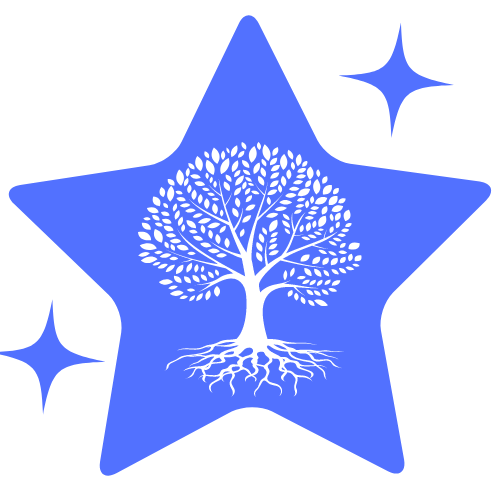
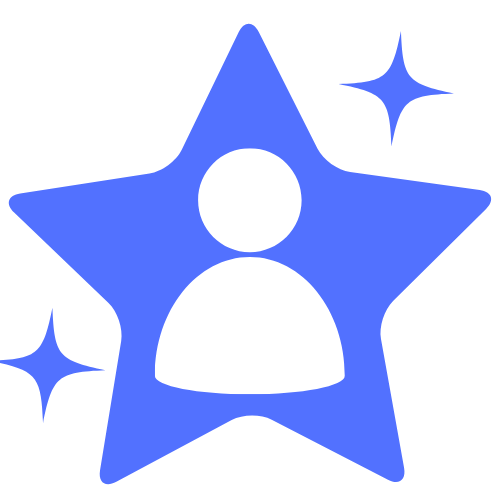
for demo

diff --git a/src/components/genealogy/StartupUserData/StartupReferralData.jsx b/src/components/genealogy/StartupUserData/StartupReferralData.jsx
@@ -11,7 +11,7 @@ const StartupReferralData = ({referrals, loading}) => {
                     <div className="card mb-3" id='gs-profile'>
                         <div className="row g-0">
                             <div className="col-md-4">
-                                <img className="card-img card-img-left" id='gs-avatar' src={process.env.PUBLIC_URL+ "/assets/img/sa_avatar_v3.png"} height={"100%"} alt="" />
+                                <img className="card-img card-img-left" id='gs-avatar' src={process.env.PUBLIC_URL+ "/assets/img/sa_avatar_v4.png"} height={"100%"} alt="" />
                             </div>
                             <div className="col-md-8">
                                 <div className="card-body" id='gs-card'>
@@ -26,7 +26,7 @@ const StartupReferralData = ({referrals, loading}) => {
                     <div className="card mb-3" id='gs-profile'>
                         <div className="row g-0">
                             <div className="col-md-4">
-                                <img className="card-img card-img-left" id='gs-avatar' src={process.env.PUBLIC_URL+ "/assets/img/sa_avatar_v3.png"} height={"100%"} alt="" />
+                                <img className="card-img card-img-left" id='gs-avatar' src={process.env.PUBLIC_URL+ "/assets/img/sa_avatar_v4.png"} height={"100%"} alt="" />
                             </div>
                             <div className="col-md-8">
                                 <div className="card-body" id='gs-card'>
@@ -41,7 +41,7 @@ const StartupReferralData = ({referrals, loading}) => {
                     <div className="card mb-3" id='gs-profile'>
                         <div className="row g-0">
                             <div className="col-md-4">
-                                <img className="card-img card-img-left" id='gs-avatar' src={process.env.PUBLIC_URL+ "/assets/img/sa_avatar_v3.png"} height={"100%"} alt="" />
+                                <img className="card-img card-img-left" id='gs-avatar' src={process.env.PUBLIC_URL+ "/assets/img/sa_avatar_v4.png"} height={"100%"} alt="" />
                             </div>
                             <div className="col-md-8">
                                 <div className="card-body" id='gs-card'>
@@ -56,7 +56,7 @@ const StartupReferralData = ({referrals, loading}) => {
                     <div className="card mb-3" id='gs-profile'>
                         <div className="row g-0">
                             <div className="col-md-4">
-                                <img className="card-img card-img-left" id='gs-avatar' src={process.env.PUBLIC_URL+ "/assets/img/sa_avatar_v3.png"} height={"100%"} alt="" />
+                                <img className="card-img card-img-left" id='gs-avatar' src={process.env.PUBLIC_URL+ "/assets/img/sa_avatar_v4.png"} height={"100%"} alt="" />
                             </div>
                             <div className="col-md-8">
                                 <div className="card-body" id='gs-card'>
@@ -80,7 +80,7 @@ const StartupReferralData = ({referrals, loading}) => {
                         <div className="card mb-3" id='sa-profile'>
                             <div className="row g-0">
                                 <div className="col-md-4">
-                                    <img className="card-img card-img-left" id='sa-avatar' src={process.env.PUBLIC_URL+ "/assets/img/sa_avatar_v3.png"} height={"100%"} alt="" />
+                                    <img className="card-img card-img-left" id='sa-avatar' src={process.env.PUBLIC_URL+ "/assets/img/sa_avatar_v4.png"} height={"100%"} alt="" />
                                 </div>
                                 <div className="col-md-8">
                                     <div className="card-body" id='sa-card'>

diff --git a/src/components/genealogy/StartupUserData/StartupUserGrid.jsx b/src/components/genealogy/StartupUserData/StartupUserGrid.jsx
@@ -11,7 +11,7 @@ const StartupUserGrid = ({ users, loading }) => {
                     <div className="card mb-3" id='sa-profile'>
                         <div className="row g-0">
                             <div className="col-md-4">
-                                <img className="card-img card-img-left" id='sa-avatar' src="../assets/img/sa_avatar_v3.png" height={"100%"} alt="" />
+                                <img className="card-img card-img-left" id='sa-avatar' src="../assets/img/sa_avatar_v4.png" height={"100%"} alt="" />
                             </div>
                             <div className="col-md-8">
                                 <div className="card-body" id='sa-card'>
@@ -28,7 +28,7 @@ const StartupUserGrid = ({ users, loading }) => {
                     <div className="card mb-3" id='sa-profile'>
                         <div className="row g-0">
                             <div className="col-md-4">
-                                <img className="card-img card-img-left" id='sa-avatar' src="../assets/img/sa_avatar_v3.png" height={"100%"} alt="" />
+                                <img className="card-img card-img-left" id='sa-avatar' src="../assets/img/sa_avatar_v4.png" height={"100%"} alt="" />
                             </div>
                             <div className="col-md-8">
                                 <div className="card-body" id='sa-card'>
@@ -45,7 +45,7 @@ const StartupUserGrid = ({ users, loading }) => {
                     <div className="card mb-3" id='sa-profile'>
                         <div className="row g-0">
                             <div className="col-md-4">
-                                <img className="card-img card-img-left" id='sa-avatar' src="../assets/img/sa_avatar_v3.png" height={"100%"} alt="" />
+                                <img className="card-img card-img-left" id='sa-avatar' src="../assets/img/sa_avatar_v4.png" height={"100%"} alt="" />
                             </div>
                             <div className="col-md-8">
                                 <div className="card-body" id='sa-card'>
@@ -62,7 +62,7 @@ const StartupUserGrid = ({ users, loading }) => {
                     <div className="card mb-3" id='sa-profile'>
                         <div className="row g-0">
                             <div className="col-md-4">
-                                <img className="card-img card-img-left" id='sa-avatar' src="../assets/img/sa_avatar_v3.png" height={"100%"} alt="" />
+                                <img className="card-img card-img-left" id='sa-avatar' src="../assets/img/sa_avatar_v4.png" height={"100%"} alt="" />
                             </div>
                             <div className="col-md-8">
                                 <div className="card-body" id='sa-card'>
@@ -87,7 +87,7 @@ const StartupUserGrid = ({ users, loading }) => {
                                 <div className="card mb-3" id='sa-profile'>
                                     <div className="row g-0">
                                         <div className="col-md-4">
-                                            <img className="card-img card-img-left" id='sa-avatar' src="../assets/img/sa_avatar_v3.png" height={"100%"} alt="" />
+                                            <img className="card-img card-img-left" id='sa-avatar' src="../assets/img/sa_avatar_v4.png" height={"100%"} alt="" />
                                         </div>
                                         <div className="col-md-8">
                                             <div className="card-body" id='sa-card'>

diff --git a/src/components/DashboardUI.jsx b/src/components/DashboardUI.jsx
@@ -147,7 +147,6 @@ return (
                                         Your Total Stars as of today have reached <span className="fw-bold">{startupStars} points</span>. Keep up the good
                                         work!
                                     </p>
-                                    <a href="/" className="btn btn-sm btn-outline-warning">View Genealogy</a>
                                 </div>
                             </div>
                             <div className="col-sm-5 text-center text-sm-left">
@@ -223,6 +222,8 @@ return (
                         style={{backgroundImage:"linear-gradient(to bottom right, #FFAB00, #FFE368)"}}>
                         <h5 className="card-header text-white"><i className='bx bx-line-chart'></i> Start-Up Savings</h5>
                         <div className="card-body">
+                            <p className="badge bg-warning mb-4"><strong className="text-white">Cycle No: {user.cycle}</strong> 
+                            </p>
                             <p clas="mb-4"><strong className="text-white">Rebate Balance</strong> 
                             </p>
                             <h2>
@@ -265,6 +266,8 @@ return (
                         style={{backgroundImage:"linear-gradient(to bottom right, #696CFF, #B6B7FF)"}}>
                         <h5 className="card-header text-white"><i className='bx bxs-chevrons-up'></i> Great Savings</h5>
                         <div className="card-body">
+                            <p className="badge bg-primary"><strong className="text-white">Cycle No: {user.cycle}</strong> 
+                            </p>
                             <p><strong className="text-white">Rebate Balance</strong> 
                             </p>
                             <h2>

diff --git a/src/components/Header.jsx b/src/components/Header.jsx
@@ -12,12 +12,20 @@ const Header = () => {
             Log Out
         </Tooltip>
     )
+
+    // const revokeToken = async () => {
+    //     await axios.get(`${process.env.REACT_APP_API_URL}/destroyToken`, {
+    //         headers : {
+    //             'Authorization' : `Bearer ${token}`
+    //         }
+    //     })
+    // }
+
     const handleSignout = async (e) => {
-        e.preventDefault() 
-        
-        await signOut()
+        e.preventDefault()
+        signOut()
         redirect('/')
-        window.location.reload()
+        // window.location.reload()
     }
 
     return (

diff --git a/src/contexts/Auth.js b/src/contexts/Auth.js
@@ -76,6 +76,11 @@ export const AuthProvider = ({ children }) => {
     }
 
     const signOut = () => {
+        axios.get(`${process.env.REACT_APP_API_URL}/destroyToken`, {
+            headers : {
+                'Authorization' : `Bearer ${token}`
+            }
+        })
         localStorage.removeItem('token')
         localStorage.removeItem('user')
     } 

diff --git a/src/components/Logs.jsx b/src/components/Logs.jsx
@@ -39,7 +39,7 @@ function Logs() {
     }
 
     const getRewardsLogs = async() => {
-        const apiRewards = await axios.get(`${process.env.REACT_APP_API_URL}/getRewards`, {
+        const apiRewards = await axios.get(`${process.env.REACT_APP_API_URL}/rewardLogs`, {
             headers: {
                 'Authorization' : `Bearer ${token}`
             }

diff --git a/public/index.html b/public/index.html
@@ -20,7 +20,7 @@
     <link rel="stylesheet" href="assets/vendor/libs/apex-charts/apex-charts.css">
     <link rel="stylesheet" href="assets/vendor/css/pages/page-auth.css">
     
-    <title>Stellar</title>
+    <title>We Are Stellar</title>
   </head>
   <body>
     <noscript>You need to enable JavaScript to run this app.</noscript>
